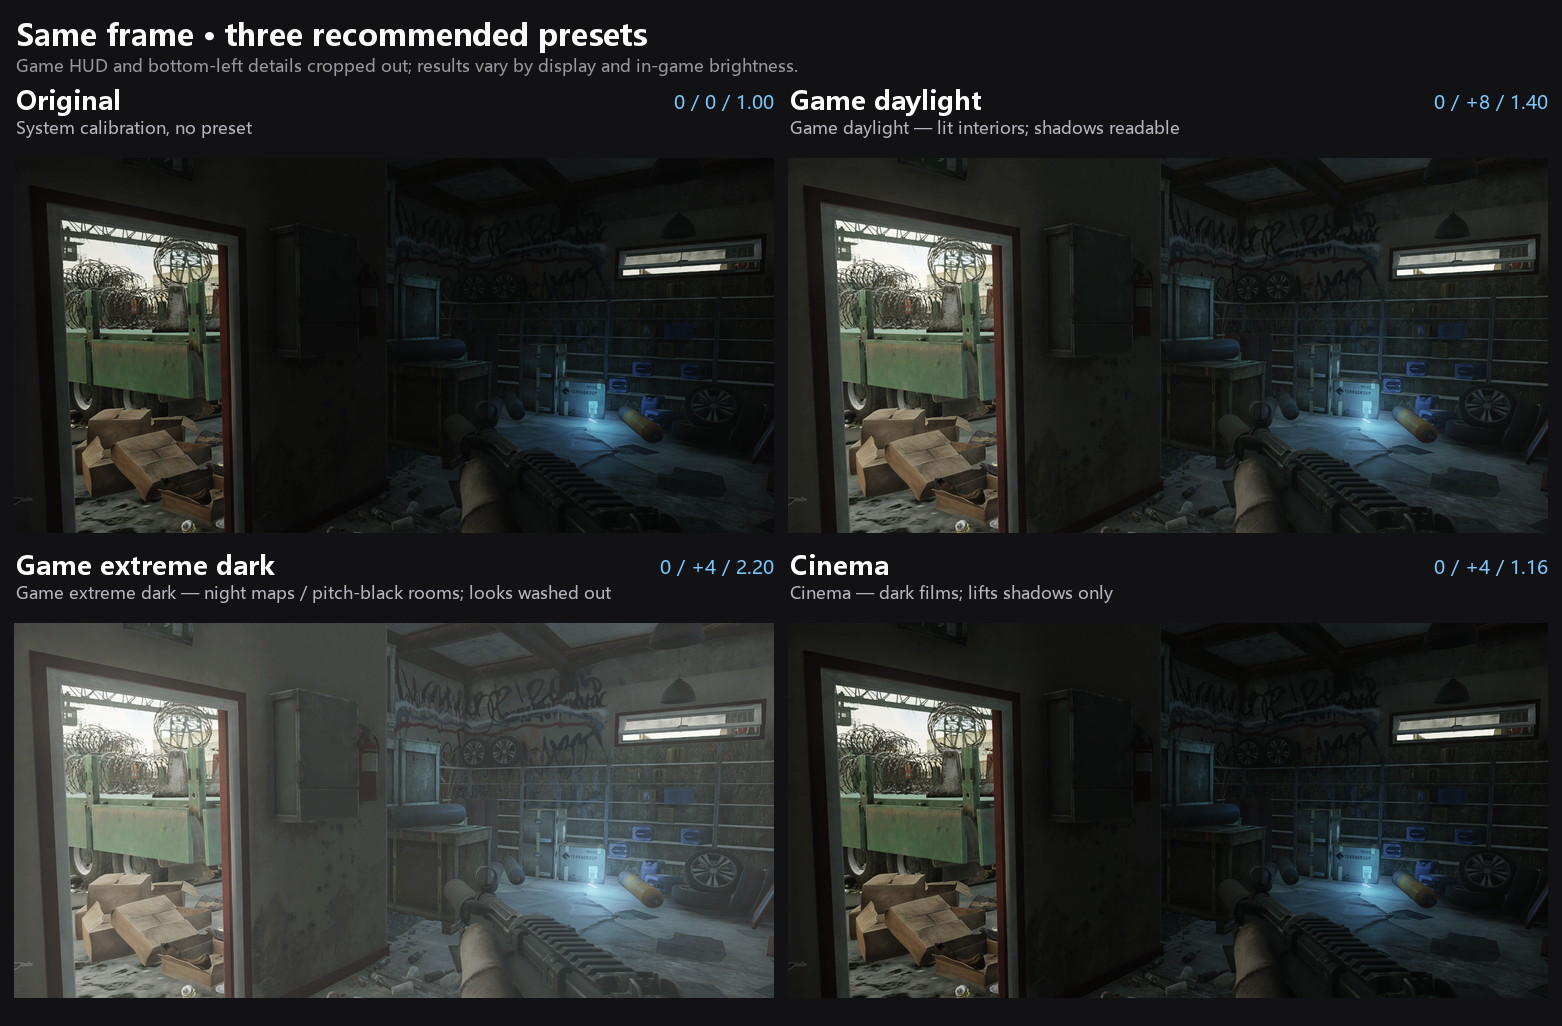
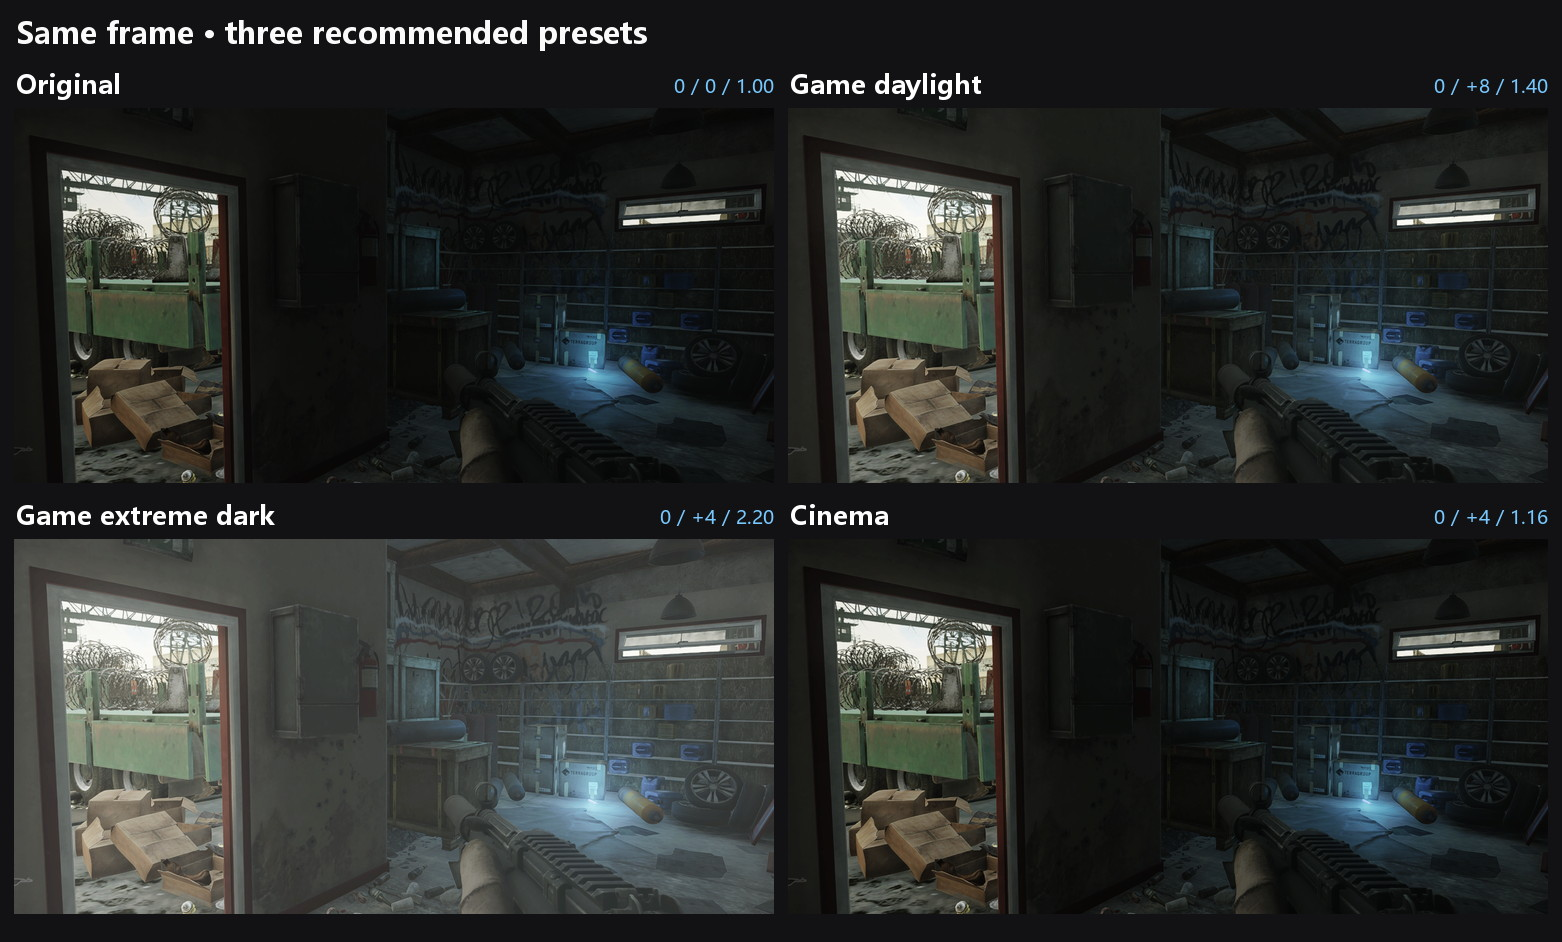
docs: README 优化
补充电影暗场示例图，对应调整 README 表述

diff --git a/AGENTS.md b/AGENTS.md
@@ -41,7 +41,13 @@ powershell -ExecutionPolicy Bypass -File build.ps1
 
 `docs/screenshots/main-zh.png` / `main-en.png` 由 `tools/MakeScreenshots.ps1` 生成：脚本排除 `MonitorService.cs` / `SystemIntegration.cs`，改用 `tools/MakeScreenshots.cs` 里的虚拟显示器（「演示显示器 A / B」「Demo Display A / B」），不会把本机显示器名带进文档。改 UI 后重跑该脚本即可更新两张图。
 
-`docs/screenshots/presets-compare-zh.jpg` / `-en.jpg`（室内）与 `presets-night-zh.jpg` / `-en.jpg`（极暗）由 `build/gamma-test/readme_preview.py` 生成：分别读取 `build/gamma-test/src/01-indoor-mixed-light.png` 与 `10-night-black-room.png`，先裁掉顶部物品栏、左侧人形与底部体力 / 版本信息，再套三套推荐预设拼成 2×2 对比图。换素材或改预设参数时同步重跑。
+README「推荐预设」区有三张 2×2 对比图，均由 `build/gamma-test/readme_preview.py` 生成，按 `SCENES` 顺序读取 `build/gamma-test/src/` 下的素材：
+
+- `presets-cutscene-zh/en.jpg` ← `14-cutscene-dark-bedroom.png`，裁剪 `CROP_CUTSCENE`（仅切右侧 1px 黑列）
+- `presets-compare-zh/en.jpg` ← `01-indoor-mixed-light.png`，裁剪 `CROP`（物品栏 / 人形 / 体力条）
+- `presets-night-zh/en.jpg` ← `10-night-black-room.png`，裁剪 `CROP`（同上）
+
+每张都把同一画面套「原图 / 游戏暗光 / 游戏极暗 / 暗场观影」拼成 2×2；**图内只画总标题（`SCENES[].title`）、预设名与参数**，场景说明、每格用途描述一律不进图——场景描述由 README 的小标题承担，改文案时改 README，不要往图里加字。换素材（例如换成更高分辨率的同帧）或改预设参数时同步重跑：`python build/gamma-test/readme_preview.py`。
 
 ### 语言与语法上限
 

diff --git a/README.en.md b/README.en.md
@@ -58,11 +58,15 @@ GammaLift only changes the display output (GPU gamma LUT and monitor OSD); it ne
 | Game extreme dark | 0 / +4 / 2.20 | Night maps and pitch-black rooms; emergency use without night vision | `GL2A2Ro3AB5` |
 | Cinema | 0 / +4 / 1.16 | Dark films and panels with weak black levels | `GL2A2RodADJ` |
 
-### Example scene 1
+### Example scene 1 · Watching a dark film
+
+![Presets compared in a dim bedroom cutscene](docs/screenshots/presets-cutscene-en.jpg)
+
+### Example scene 2 · Gaming in a daylit interior
 
 ![Recommended presets compared](docs/screenshots/presets-compare-en.jpg)
 
-### Example scene 2
+### Example scene 3 · Extreme-dark game scene
 
 ![Presets compared in an extreme-dark scene](docs/screenshots/presets-night-en.jpg)
 
@@ -82,7 +86,7 @@ GammaLift stands on the shoulders of two giants:
 - The classic [Gamma Panel](https://gamma-panel.en.softonic.com/)
 - [GammaPanelX](https://github.com/NiseMonox/GammaPanelX) by [NiseMonox](https://github.com/NiseMonox)
 
-GammaLift is a derivative of GammaPanelX. The MIT license and both copyright lines are in [LICENSE](LICENSE).
+GammaLift is a derivative of GammaPanelX. The MIT license and copyright are in [LICENSE](LICENSE).
 
 ## Privacy
 
